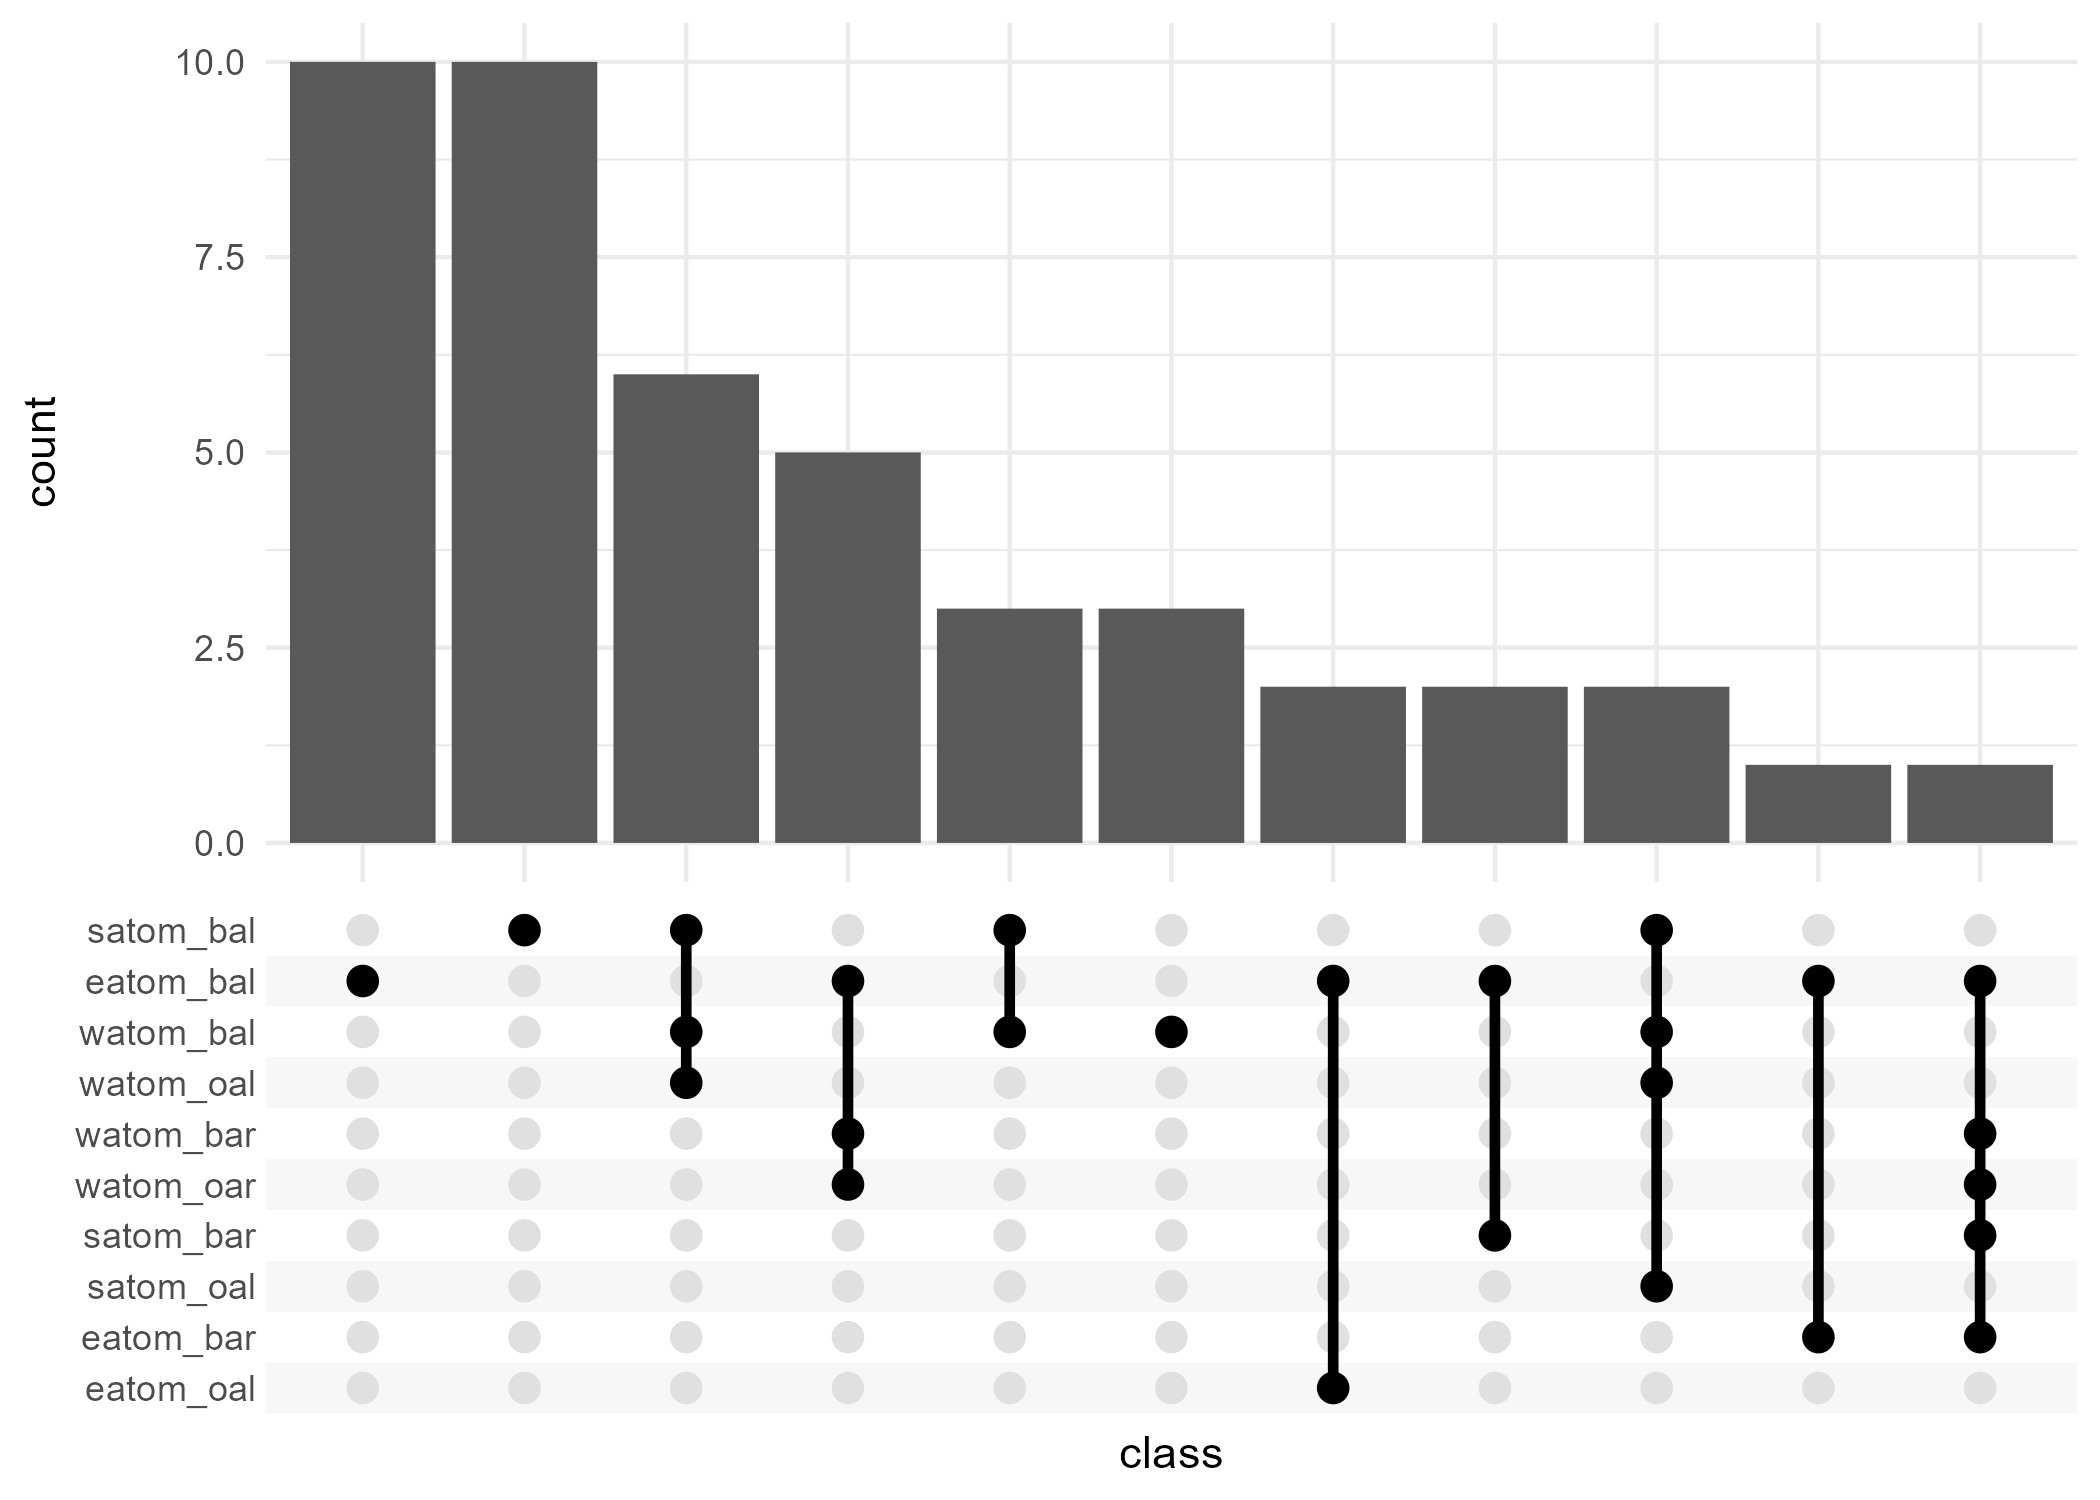
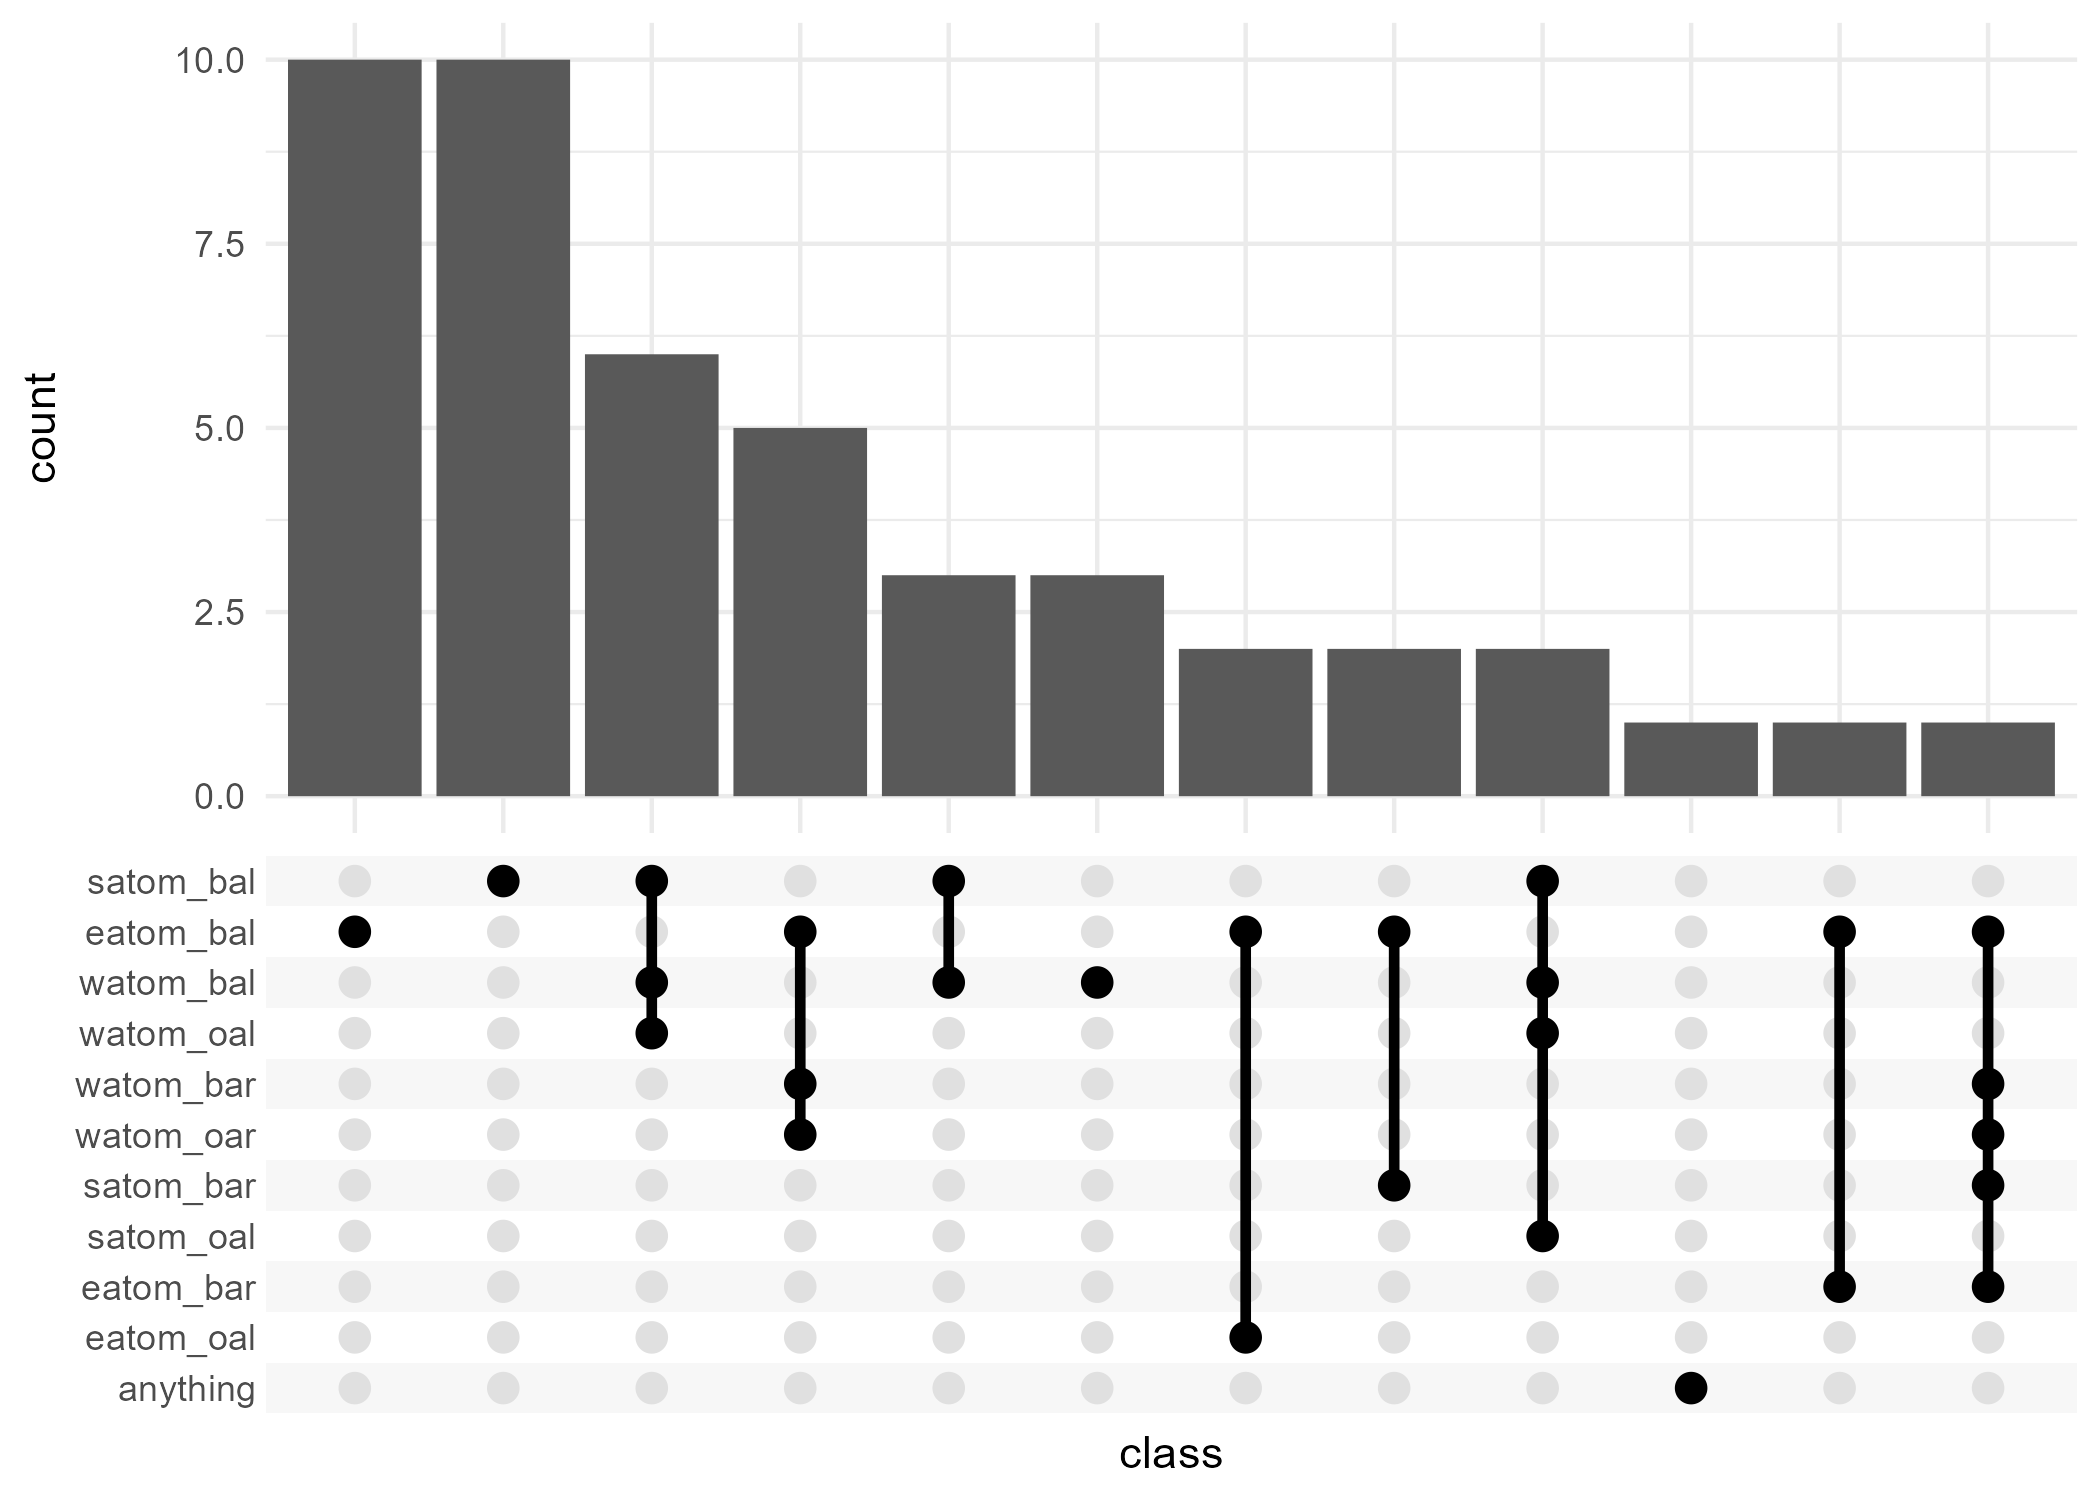
Add files via upload

diff --git a/README.md b/README.md
@@ -1,3 +1,7 @@
+---
+---
+---
+
 # SMILES Parser (work in progress)
 
 For the SMILES (Simplified Molecular Input Line Entry System) reference, please, SEE:
@@ -94,13 +98,21 @@ Corresponding characters could be designated as **satom_bar** & **eatom_bar**,wh
 
 Corresponding characters could be designated as **satom_bal** & **eatom_bal**,where prefix **s** stands for the start of the symbol, prefix **e** stands for the end of the symbol; suffix **b** - for bracket and suffix **al** - for aliphatic.
 
+Also, **\*** is an allowed symbol in SMILES, which corresponds to the any atom symbol and behaves similar to the single character atom symbols of organic aliphatic and aromatic atoms:
+
+-   Single character atom symbol of any atom:
+
+| \*
+
+Corresponding character could be designated as **anything**, since it could mean basically anything.
+
 #### Question
 
 So, "SMILES is parsable with a context-free parser", which in practice means that given the set of SMILES strings, each of them could be correctly parsed without considering any other string.
 
 Maybe it is also possible to guess the atom and its properties expressed as the type of atom symbol in the single SMILES string by a single character, without considering any other character in this SMILES string?
 
-To be honest, the answer is definately not, but the details matter.
+To be honest, the answer is definitely not, but the details matter.
 
 Trying to answer this question by checking the intersection between the sets of characters describing atom symbols of different types, it is possible to get some insights into what also should be considered, besides the one character at time, while parsing SMILES string.
 
@@ -154,6 +166,8 @@ symb__atom_bal <- c('He', 'Li', 'Be', 'Ne', 'Na', 'Mg', 'Al', 'Si', 'Cl', 'Ar',
 satom_bal <- map(symb__atom_bal, \(x) str_sub(x, 1, 1)) |> unlist() |> unique()
 # Get the last character for each atom symbol
 eatom_bal <- map(symb__atom_bal, \(x) str_sub(x, -1)) |> unlist() |> unique()
+# 09, single character symbol of anything
+anything <- c('*')
 
 ## Analyze characters constituting atom symbols from different classes
 atom_symbol_characters <- tibble(
@@ -166,7 +180,8 @@ atom_symbol_characters <- tibble(
                   satom_bar,
                   eatom_bar,
                   satom_bal,
-                  eatom_bal),
+                  eatom_bal,
+                  anything),
     class = c(rep("watom_oar", length(watom_oar)),
               rep("watom_oal", length(watom_oal)),
               rep("watom_bar", length(watom_bar)),
@@ -176,7 +191,8 @@ atom_symbol_characters <- tibble(
               rep("satom_bar", length(satom_bar)),
               rep("eatom_bar", length(eatom_bar)),
               rep("satom_bal", length(satom_bal)),
-              rep("eatom_bal", length(eatom_bal)))
+              rep("eatom_bal", length(eatom_bal)),
+              rep("anything", length(anything)))
     ) |>
     group_by(character) |>
     summarise(class = list(class))
@@ -242,7 +258,7 @@ As it was said earlier, by default each atom in SMILES string is considered to b
 
 #### What are they?
 
-Bond multiplying symbols is used in SMILES to extend the number of atoms, which connections to the current atom could be written using linear notation (SMILES).
+Bond multiplying symbols is used in SMILES to extend the number of atoms, for which connections to the current atom could be written using linear notation (SMILES).
 
 Bond multiplying symbols allowed in SMILES could be divided into two categories by their length:
 
@@ -542,7 +558,7 @@ From this, it is possible to assume that reliability of the SMILES as a form of 
 
 Still, ability to parse SMILES using basic rules are essential to maintain this status.
 
-### All the symbols and corresponding characters inside the square brackets besides the main atom symbol 
+### All the symbols and corresponding characters inside the square brackets besides the main atom symbol
 
 #### What are they?
 
@@ -582,25 +598,25 @@ Chiral symbols allowed in SMILES could be divided into 5 categories by their len
 
 -   Single character chiral symbols:
 
-| @
+| \@
 
 Corresponding characters could be designated as **wchiral**, where prefix **w** stands for the whole symbol.
 
 -   Two-character chiral symbols:
 
-| @
+| \@
 
 Corresponding characters could be designated as **schiral & echiral**, where prefix **s** stands for the start and prefix **e** stands for the end of the symbol.
 
 -   Four-character chiral symbols:
 
-| @, T, H, A, L, S, P, B, O, 1, 2, 3, 4, 5, 6, 7, 8, 9
+| \@, T, H, A, L, S, P, B, O, 1, 2, 3, 4, 5, 6, 7, 8, 9
 
 Corresponding characters could be designated as **schiral & mchiral & echiral**, where prefix **s** stands for the start, prefix **m** stands for the middle (2 characters) and prefix **e** stands for the end of the symbol.
 
 -   Five-character chiral symbols:
 
-| @, T, B, O, H, 0, 1, 2, 3, 4, 5, 6, 7, 8, 9
+| \@, T, B, O, H, 0, 1, 2, 3, 4, 5, 6, 7, 8, 9
 
 Corresponding characters could be designated as **schiral & mchiral & echiral**, where prefix **s** stands for the start, prefix **m** stands for the middle (3 characters) and prefix **e** stands for the end of the symbol.
 
@@ -671,5 +687,3 @@ Corresponding characters could be designated as **sclass & mclass & eclass**, wh
 Corresponding characters could be designated as **sclass & mclass & eclass**, where prefix **s** stands for the start, **m** (3 characters) stands for the middle and **e** stands for the end of the symbol.
 
 As it can be seen without the further analysis, the aforementioned in-brackets categories of symbols are highly interconnected, but still it is quite easy to discriminate between the different symbols inside the square brackets, since they appear in fixed order.
-
-Also, **\*** is an allowed symbol in SMILES, which corresponds to the any atom symbol and behaves accordingly (single character atom symbol). This section, *Analysis of symbols and characters allowed in SMILES*, will soon be checked and updated to consider it.
